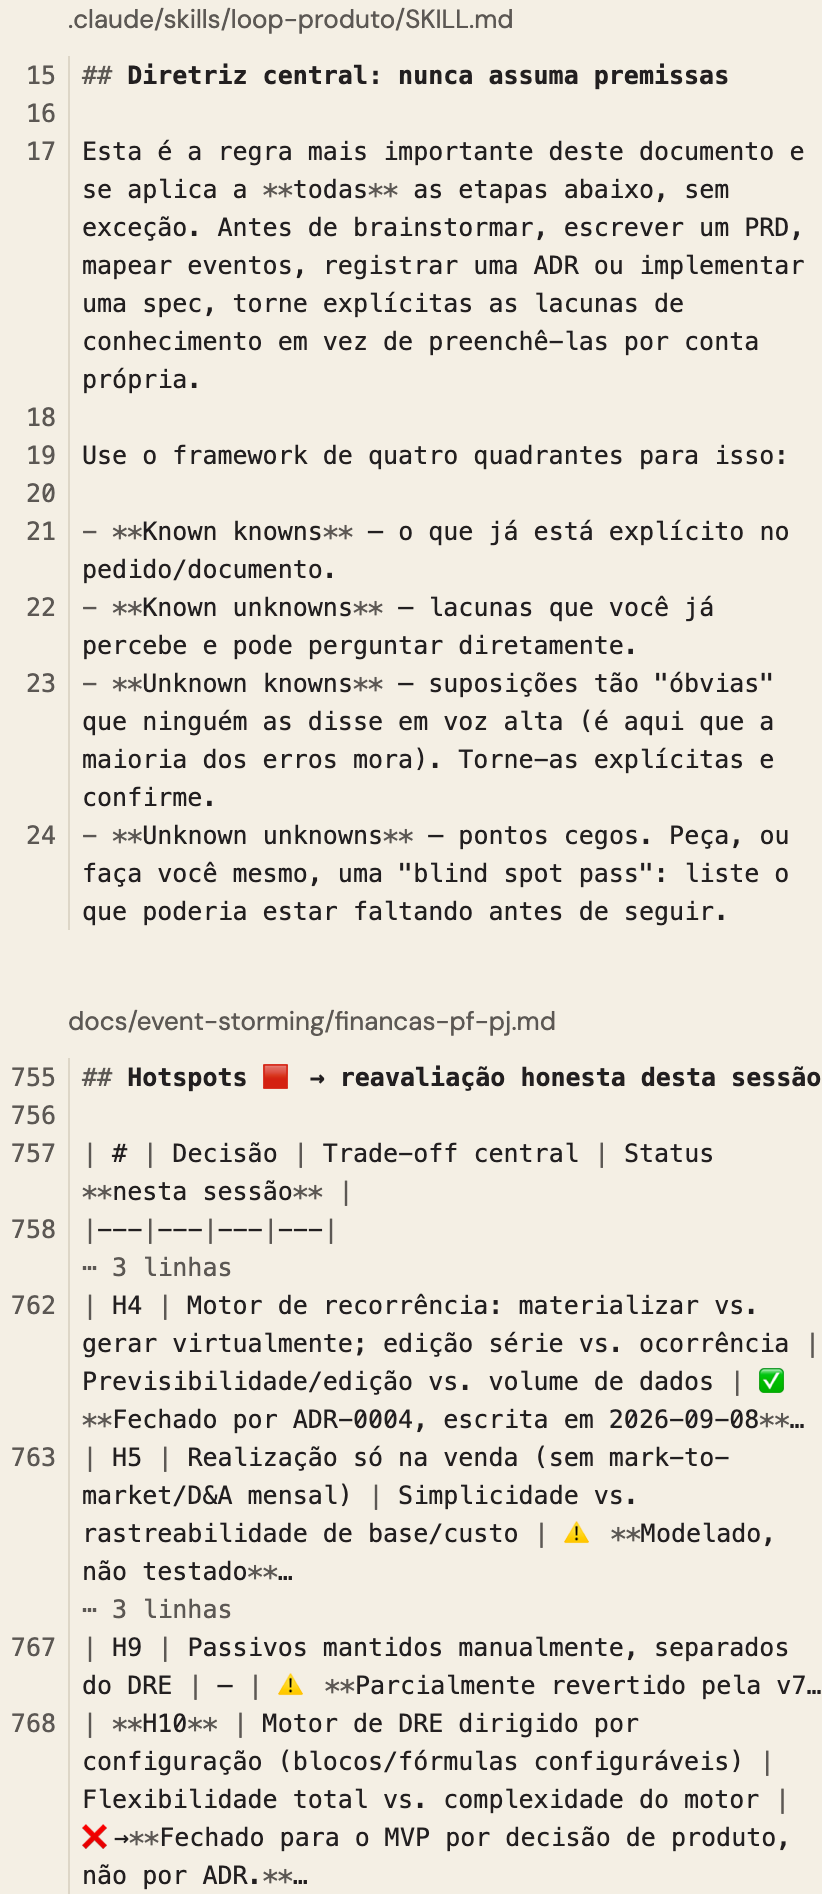
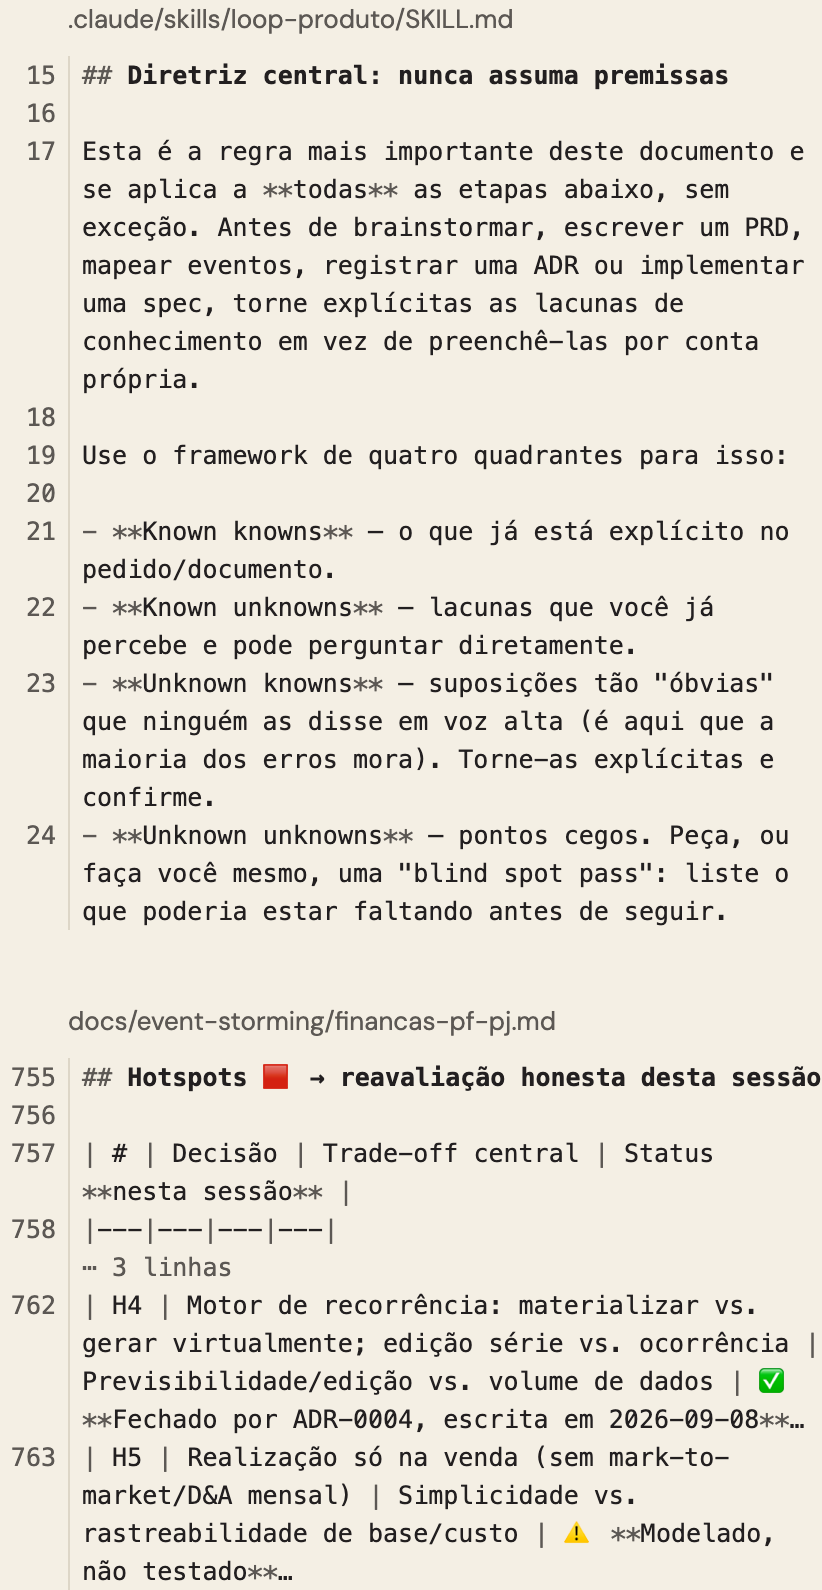
A colagem do capítulo 2 do Finanças termina no H5 (decisão 194)
O corte deixa a imagem com 822x1590; o texto alternativo acompanha. telas.json e
trilha.json relidos: 6516 e 10101. As checagens seguem só com as 7 conhecidas.

diff --git a/case-study-financas-pf-pj.md b/case-study-financas-pf-pj.md
@@ -45,7 +45,7 @@ Com o método de pé, dirigi a construção do documento de produto a partir de 
 
 Com as regras estáveis, pedi a tradução do documento para um modelo formal de domínio: eventos, comandos, políticas e agregados. Onde havia tensão sem resposta certa ainda, instruí que ficasse marcada como hotspot em vez de decidida no automático.
 
-![Dois trechos de arquivos do projeto como aparecem num editor de texto, com os números de linha à esquerda e a marcação do markdown visível. Em cima, as linhas 15 a 24 da skill loop-produto: a seção Diretriz central: nunca assuma premissas, que manda tornar explícitas as lacunas de conhecimento em vez de preenchê-las por conta própria, e os quatro quadrantes, de known knowns a unknown unknowns. Embaixo, linhas da tabela de hotspots do event storming, com o número de cada um, a decisão em aberto, o trade-off e o status: H4 fechado por ADR, H5 modelado e não testado, H9 parcialmente revertido e H10 fechado para o MVP por decisão de produto.](publico/midias/financas-2-descoberta.png)
+![Dois trechos de arquivos do projeto como aparecem num editor de texto, com os números de linha à esquerda e a marcação do markdown visível. Em cima, as linhas 15 a 24 da skill loop-produto: a seção Diretriz central: nunca assuma premissas, que manda tornar explícitas as lacunas de conhecimento em vez de preenchê-las por conta própria, e os quatro quadrantes, de known knowns a unknown unknowns. Embaixo, o começo da tabela de hotspots do event storming, com o número de cada um, a decisão em aberto, o trade-off e o status: H4 fechado por ADR e H5 modelado e não testado.](publico/midias/financas-2-descoberta.png)
 Legenda: A regra escrita antes de qualquer tela, e o que ela produziu: cada dúvida do modelo de domínio virou hotspot, com destino registrado.
 
 ---

diff --git a/docs/log-de-decisoes.md b/docs/log-de-decisoes.md
@@ -6498,3 +6498,23 @@ separa os números do texto é o único traço da peça.
 
 **Consequência.** Figma, as quatro telas reajustadas com o respiro de 96 e 64; desktop com 6668 e
 estreita com 10222. Texto alternativo reescrito para a versão nova; a legenda não mudou.
+
+---
+
+## 194 · A colagem do capítulo 2 corta depois do H5
+
+**Quando** 2026-10-01 · **Fase** 4 · **Domínio** case
+
+**Gatilho.** A versão de arquivo da 193 ficou com 947 px, e ela: *"ficou grande mesmo, pode cortar"*.
+
+**Decisão.** O segundo trecho termina no H5 (linha 763). Saem a segunda dobra, o H9 e o H10. A peça
+volta a 411×795, a altura da 192.
+
+**Alternativa descartada.** *Cortar o trecho da skill*: ele é a regra que o capítulo cita, e o corte
+cairia nos quatro quadrantes. *Encolher a fonte*: o texto já está em 12,5 px.
+
+**Custo aceito.** A tabela mostra só dois status, fechado e modelado sem teste; os casos revertido e
+fechado por decisão de produto deixam de aparecer.
+
+**Consequência.** Figma reajustado: desktop com 6516, estreita com 10101, respiros de 96 e 64. Texto
+alternativo e `midias.json` atualizados.
